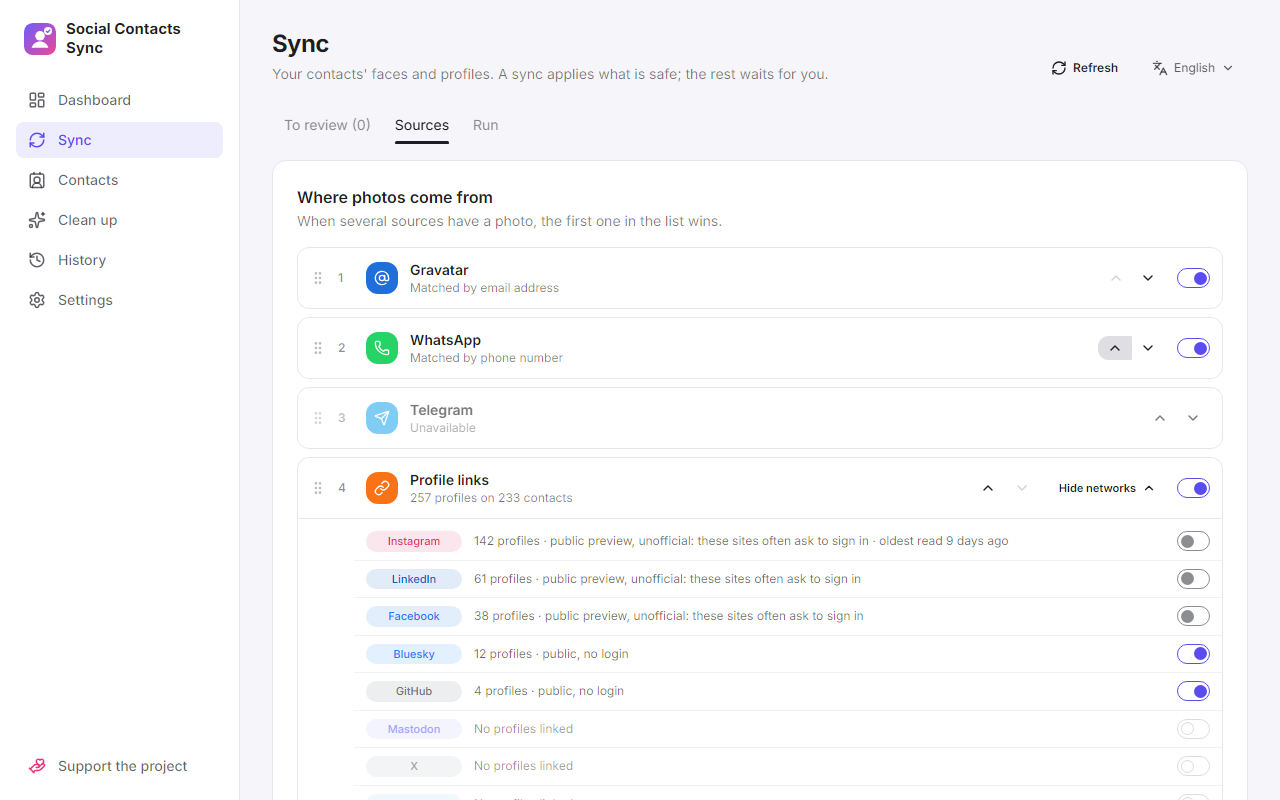
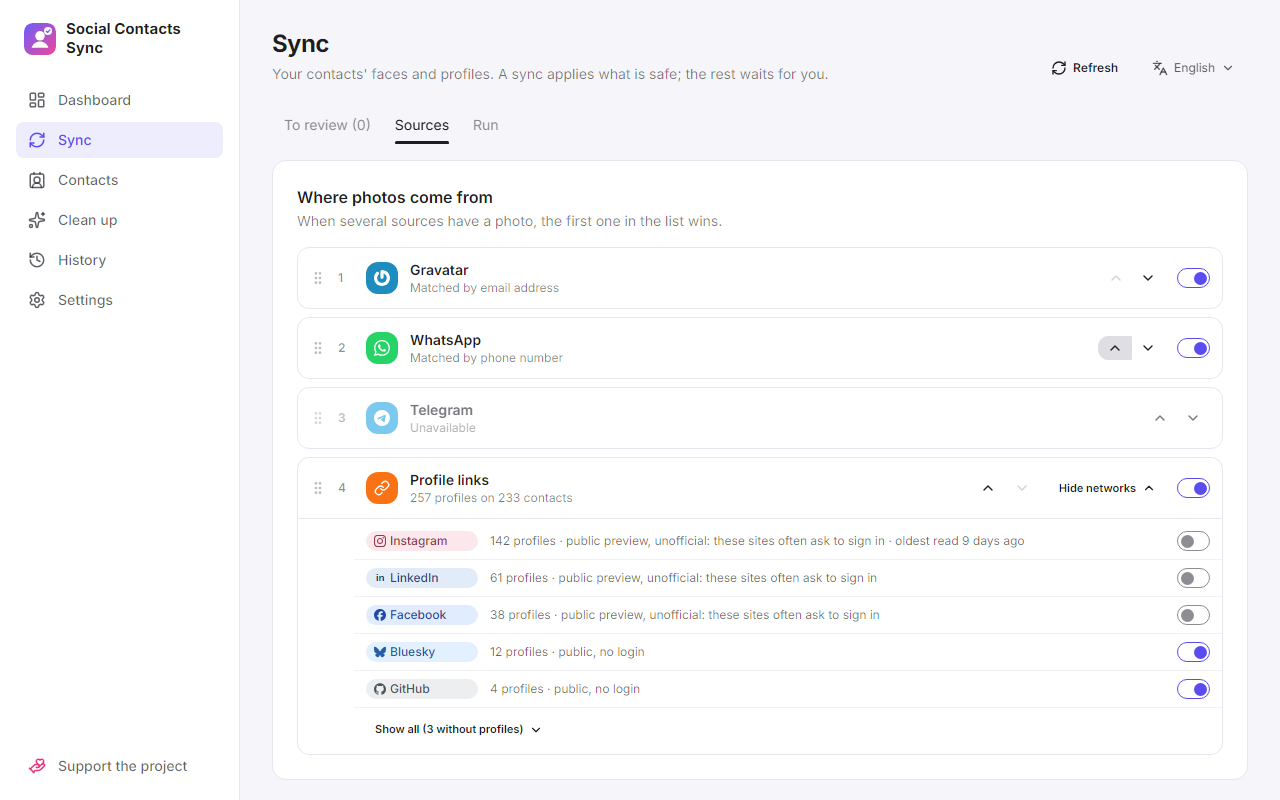
Document the To review rework: CHANGELOG, README and screenshots
The CHANGELOG gets an Unreleased entry for #104 and the missing 1.4.1
entry. The README describes the no-photo cards, the filters, the photo
rules and the search with the login, and no longer lists Telegram among
the profile networks. The Dashboard, Sources and To review screenshots
come from the current app.

diff --git a/CHANGELOG.md b/CHANGELOG.md
@@ -3,6 +3,56 @@
 What changed in each release of Social Contacts Sync. The packages are on the
 [releases page](https://github.com/easly1989/social-contacts-sync/releases).
 
+## Unreleased
+
+### Added
+
+- **To review lists the contacts without a photo.** Each one gets a card, even
+  when nothing was found yet, with a place to find their profile. *No photo*
+  hides a card for good, unless the contact's phones, emails or links change;
+  *Skip* hides it until the next sync.
+  ([#104](https://github.com/easly1989/social-contacts-sync/issues/104))
+- **Filters and search in To review.** No photo, Different photo, Profiles to
+  link, Changed outside the app, or All, each with its count, and a search by
+  name. *Select all* selects what the filter shows.
+- **Desktop: search a contact's name with your login.** From a card, or for up
+  to 25 selected cards, on Instagram, Facebook and LinkedIn, five results per
+  site. Nothing is searched until you start it, and the first time the app
+  explains the risk, as for the login scans.
+- **Where the current photo comes from.** The contact's photo shows its source,
+  such as *Current · from WhatsApp*, and keeping it is the default choice.
+
+### Changed
+
+- **Only photos worth it.** For a contact that already has a photo, To review
+  offers nothing smaller than 200×200 and nothing that looks the same as the
+  current photo. A contact without a photo is offered smaller photos too,
+  marked *small*. Facebook and Instagram photos are offered only when read with
+  your login.
+- **Real logos.** Every source and network shows its own logo and colour.
+- Telegram is no longer listed among the profile networks; the networks without
+  profiles are behind *Show all*.
+- Contact photos are shown sharper.
+
+### Fixed
+
+- Facebook photos read with the login were blurred: the reader picked the cover
+  or a blurred copy of the picture. The old Facebook reads are dropped and read
+  again by the next sync.
+
+## 1.4.1 — 2026-10-18
+
+### Fixed
+
+- Pinned Instagram profiles are read even when Instagram's API says no.
+  ([#100](https://github.com/easly1989/social-contacts-sync/pull/100))
+- A stuck sync can always be stopped, and the desktop app can restart its
+  server. ([#101](https://github.com/easly1989/social-contacts-sync/pull/101))
+- To review: photos grow on hover again, and each profile is offered once.
+  ([#102](https://github.com/easly1989/social-contacts-sync/pull/102))
+- To review no longer suggests a profile that is already on another contact.
+  ([#103](https://github.com/easly1989/social-contacts-sync/pull/103))
+
 ## 1.4.0 — 2026-10-18
 
 ### Added

diff --git a/README.md b/README.md
@@ -32,7 +32,7 @@
 - **Photos from your sources.** WhatsApp and Telegram (matched by phone number)
   and Gravatar (matched by email), in the priority order you choose. Only your
   existing Telegram contacts are read; nothing is added to your account.
-- **Profile links.** The X, Telegram, YouTube, Bluesky, Mastodon and GitHub
+- **Profile links.** The X, YouTube, Bluesky, Mastodon and GitHub
   profiles saved on a contact give it their public picture, with no sign-in.
   Instagram, Facebook and LinkedIn can be turned on too, unofficially. Add a
   link right from a sync report's "No photo found" list, or while reviewing.
@@ -43,15 +43,19 @@
 - **Photos follow their source.** A photo picked from WhatsApp, Gravatar or a
   profile keeps following it, so later syncs bring its new picture. A photo you
   change by hand in Google is never overwritten.
-- **To review.** One card per contact, kept between sessions. Tick the social
-  profiles that are really them, and pick one photo among every source and
-  every profile. Confirm one contact, or select many and confirm them in one
-  go. The suggestions come from:
+- **To review.** One card per contact, kept between sessions, including every
+  contact still without a photo. Filter by what a card needs, or search by
+  name. Tick the social profiles that are really them, and pick one photo among
+  every source and every profile; only photos sharp enough and different from
+  the current one are offered. Confirm one contact, or select many and confirm
+  them in one go. The suggestions come from:
   - your own Instagram and LinkedIn data exports;
   - a public search by name on Bluesky, Mastodon and GitHub;
-  - experimental and off by default, a slow scan of your own followers, friends
-    and connections with your Instagram, Facebook or LinkedIn login. This goes
-    against those sites' terms: your account may be limited or suspended.
+  - experimental and only when you start it, on the desktop app, with your
+    Instagram, Facebook or LinkedIn login: a search by name for one contact or
+    the selected ones, and a slow scan of your own followers, friends and
+    connections. This goes against those sites' terms: your account may be
+    limited or suspended.
 - **Nothing changes without a way back.** Every sync and every review session
   is in History, with a report. Undo one contact or the whole entry: the photo,
   the profile links and the source the photo followed go back together.
